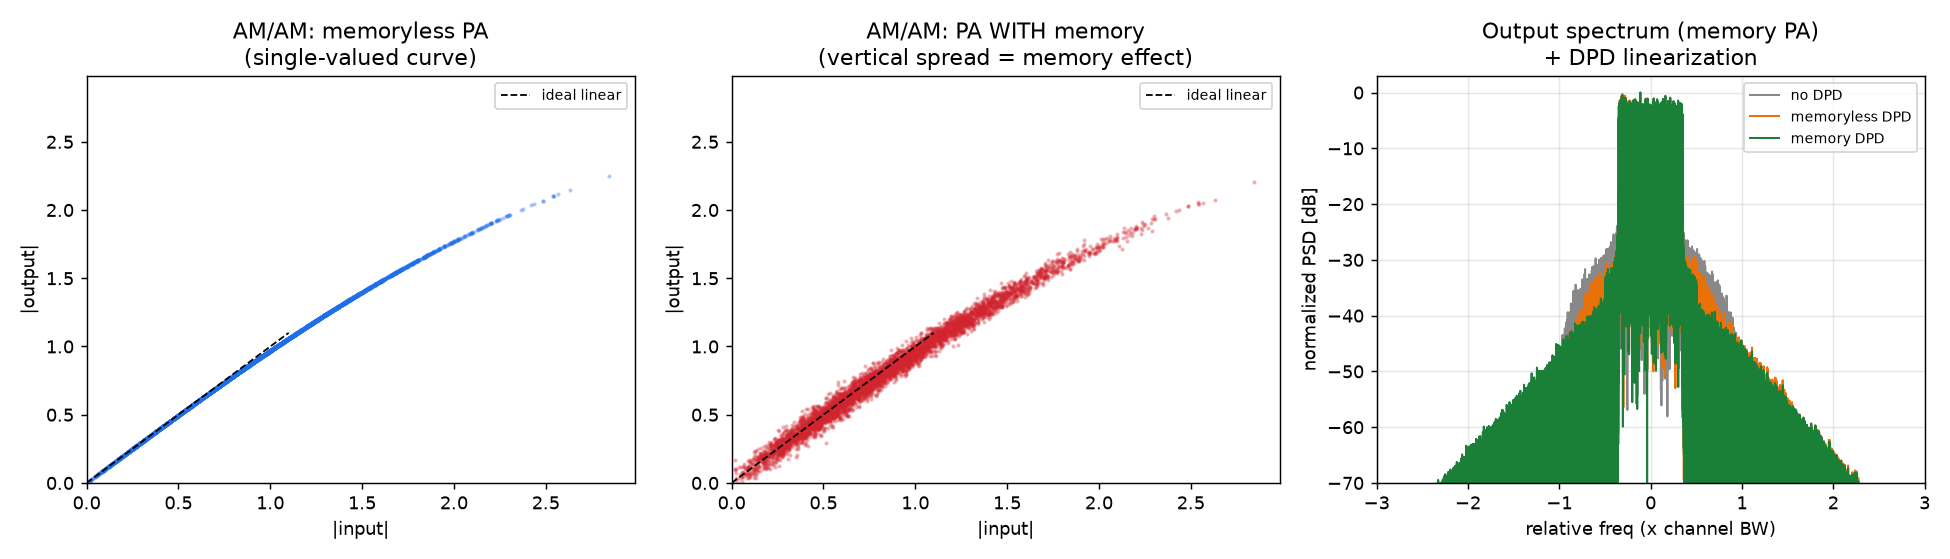
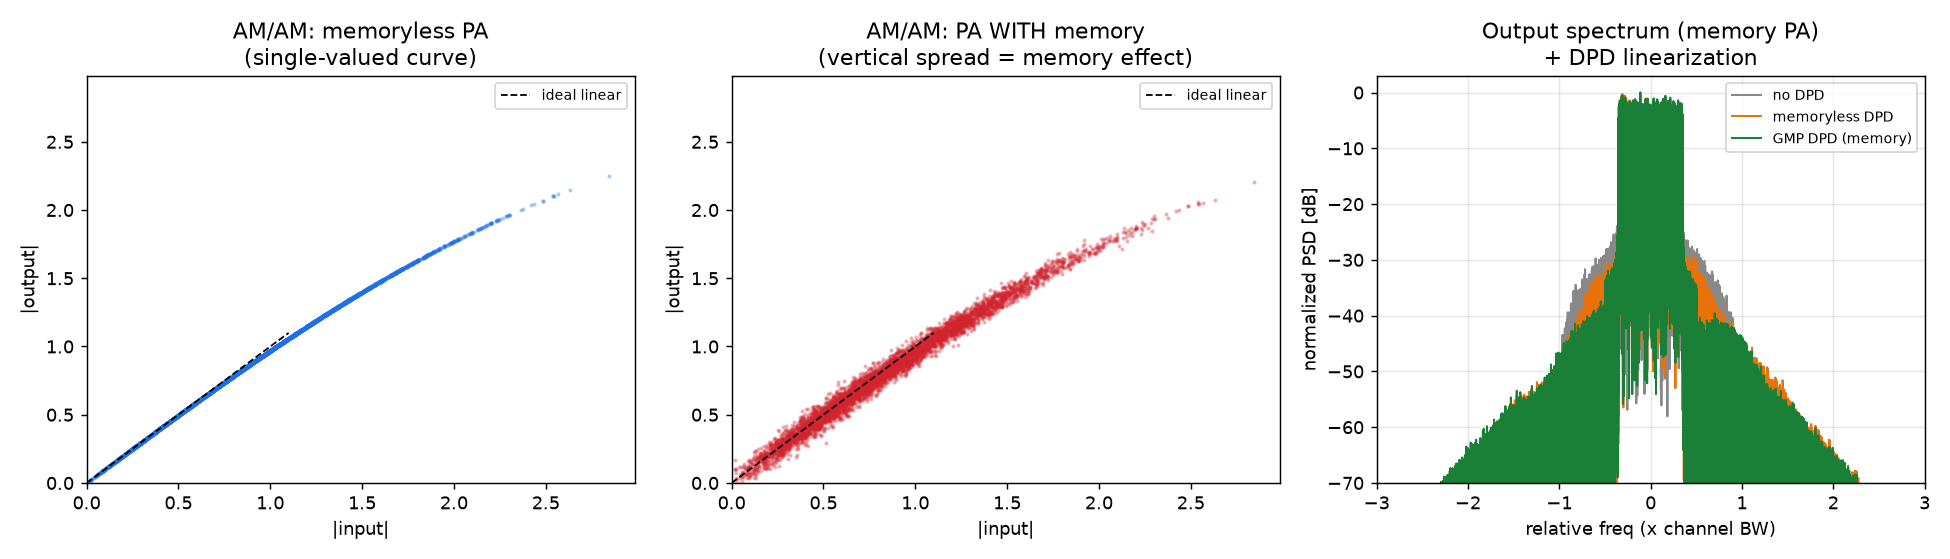
sim/docs: 必読3本(Morgan GMP/Boumaiza熱/Ku-Kenney)とGMP実装を反映
ユーザ提示の標準リファレンスと数式を取り込み、GMPをシミュレーションに実装。

- レポート§6.0新設: メモリレス/MP/GMPの数式と必読3本(①Morgan GMP 2006,
  ②Boumaiza&Ghannouchi 熱メモリー効果 2003 DOI:10.1109/TMTT.2003.820157,
  ③Ku&Kenney 挙動モデル 2003)を明記。参考資料集§2.1も3本構成に更新。
- sim: gmp_basis(交差項 x[n-m]|x[n-m-l]|^{p-1})を追加し、identify/apply_dpdを
  model='mp'|'gmp'対応に一般化。main()にGMP行を追加。
- 結果: メモリレスEVM7.49%→MP 2.03%→GMP 2.01%(ACLR 40.5dB,最良)。
  本モデルは線形FIRメモリ主体のためMPでほぼ足り、GMP上乗せは小と明記。

Claude-Session: https://claude.ai/code/session_01JMFErp3zmr5vsasCsD5dKh

diff --git a/sim/dpd_memory_sim.py b/sim/dpd_memory_sim.py
@@ -110,7 +110,8 @@ class GaNPA:
 #    memory=0 → メモリレス DPD, memory>0 → メモリ付き DPD
 # ----------------------------------------------------------------------
 def mp_basis(x, order=7, memory=2, tap_spacing=1):
-    """メモリ多項式基底 (奇数次 1,3,5,.. × メモリ 0..memory)。
+    """メモリ多項式(MP)基底 (奇数次 1,3,5,.. × メモリ 0..memory)。
+        列: x[n-m]·|x[n-m]|^{p-1}
     tap_spacing でメモリタップ間隔を指定(PA のメモリ時定数に整合させる)。"""
     ks = range(1, order + 1, 2)
     cols = []
@@ -124,25 +125,50 @@ def mp_basis(x, order=7, memory=2, tap_spacing=1):
     return np.column_stack(cols)
 
 
-def identify_dpd(pa, x, order=7, memory=2, tap_spacing=1, iters=1, lam=1e-5):
+def gmp_basis(x, order=7, memory=2, lag=1, tap_spacing=1):
+    """一般化メモリ多項式(GMP)基底 = MP + 遅延包絡線との交差項(Morgan 2006)。
+        交差項: x[n-m]·|x[n-m-l]|^{p-1}   (l=1..lag, p=3,5,..)
+    遅延した包絡線 |x[n-m-l]| が現在の信号に与える影響を補正する。"""
+    cols = [mp_basis(x, order, memory, tap_spacing)]      # 基本の MP 項
+    ax = np.abs(x)
+    ks = range(3, order + 1, 2)                            # 交差項は 3 次以上
+    for m in range(memory + 1):
+        d = m * tap_spacing
+        xm = np.roll(x, d); xm[:d] = 0
+        for l in range(1, lag + 1):
+            dl = (m + l) * tap_spacing
+            axl = np.roll(ax, dl); axl[:dl] = 0
+            for k in ks:
+                cols.append(xm * axl ** (k - 1))
+    return np.column_stack(cols)
+
+
+def _basis(x, model, order, memory, lag, tap_spacing):
+    if model == 'gmp':
+        return gmp_basis(x, order, memory, lag, tap_spacing)
+    return mp_basis(x, order, memory, tap_spacing)
+
+
+def identify_dpd(pa, x, order=7, memory=2, tap_spacing=1, model='mp', lag=1,
+                 iters=1, lam=1e-5):
     """間接学習(ILA): ポストインバースをリッジ回帰で同定 → プリディストータに転用。
     正規化領域(PA 出力を小信号利得 G で割る)で「Phi(z)·w ≈ u」を解く。
-    tap_spacing は PA のメモリ時定数に整合させる(不整合だとメモリ補正が効かない)。"""
+    model='mp'|'gmp'。tap_spacing は PA のメモリ時定数に整合させる。"""
     G = _lin_gain(pa)
     u = x.copy()                       # 現在の PA 入力(初期=無補正)
     w = None
     for _ in range(iters):
         z = pa(u) / G                  # 正規化 PA 出力
-        Phi = mp_basis(z, order, memory, tap_spacing)
+        Phi = _basis(z, model, order, memory, lag, tap_spacing)
         A = Phi.conj().T @ Phi
         A += lam * np.trace(A) / A.shape[0] * np.eye(A.shape[0])
         w = np.linalg.solve(A, Phi.conj().T @ u)
-        u = mp_basis(x, order, memory, tap_spacing) @ w
+        u = _basis(x, model, order, memory, lag, tap_spacing) @ w
     return w, G
 
 
-def apply_dpd(x, w, order=7, memory=2, tap_spacing=1):
-    return mp_basis(x, order, memory, tap_spacing) @ w
+def apply_dpd(x, w, order=7, memory=2, tap_spacing=1, model='mp', lag=1):
+    return _basis(x, model, order, memory, lag, tap_spacing) @ w
 
 
 def _lin_gain(pa):
@@ -246,11 +272,15 @@ def main():
     y0 = pa(x) / g
     w_ml, _ = identify_dpd(pa, x, order=7, memory=0, tap_spacing=osr)
     y1 = pa(apply_dpd(x, w_ml, 7, 0, osr)) / g
-    w_mem, _ = identify_dpd(pa, x, order=7, memory=3, tap_spacing=osr)
-    y2 = pa(apply_dpd(x, w_mem, 7, 3, osr)) / g
+    w_mp, _ = identify_dpd(pa, x, order=7, memory=3, tap_spacing=osr, model='mp')
+    y2 = pa(apply_dpd(x, w_mp, 7, 3, osr, model='mp')) / g
+    w_gmp, _ = identify_dpd(pa, x, order=7, memory=3, tap_spacing=osr,
+                            model='gmp', lag=1)
+    y3 = pa(apply_dpd(x, w_gmp, 7, 3, osr, model='gmp', lag=1)) / g
     rows = [("DPD なし", evm_ofdm(y0, x, meta), aclr(y0, osr)),
             ("メモリレス DPD", evm_ofdm(y1, x, meta), aclr(y1, osr)),
-            ("メモリ付き DPD", evm_ofdm(y2, x, meta), aclr(y2, osr))]
+            ("MP DPD (メモリ)", evm_ofdm(y2, x, meta), aclr(y2, osr)),
+            ("GMP DPD (交差項)", evm_ofdm(y3, x, meta), aclr(y3, osr))]
 
     print(f"\n===== パートB: 64QAM/OFDM(≒17.5MHz, PAPR≈{papr:.1f}dB) の DPD 評価 =====")
     print("-" * 50)
@@ -262,15 +292,16 @@ def main():
     print("64QAM 目標: EVM ≦ 8%,  ACLR ≧ ~30 dB")
 
     print("\n>>> メモリー効果の検証(結論):")
-    print(f"    メモリレス DPD: EVM {rows[1][1]:.2f}%  (静的補正のみ → 残留)")
-    print(f"    メモリ付き DPD: EVM {rows[2][1]:.2f}%  (メモリ補正で解消)")
+    print(f"    メモリレス DPD : EVM {rows[1][1]:.2f}%  (静的補正のみ → 残留)")
+    print(f"    MP DPD        : EVM {rows[2][1]:.2f}%  (メモリ補正で解消)")
+    print(f"    GMP DPD       : EVM {rows[3][1]:.2f}%  (交差項でさらに/同等)")
     if rows[1][1] - rows[2][1] > 1.0:
-        print("    ⇒ メモリレス DPD では取り切れない残留を、メモリ付き DPD が解消。")
+        print("    ⇒ メモリレス DPD では取り切れない残留を、MP/GMP が解消。")
         print("       メモリー効果は明確に『出て』おり、DPD にメモリ項が必須と確認。")
     else:
         print("    ⇒ 差は小さい(モデル設定ではメモリ寄与が軽微)。")
 
-    _make_figures(x, pa, pa_nomem, y0, y1, y2, g, osr)
+    _make_figures(x, pa, pa_nomem, y0, y1, y3, g, osr)  # 図は memoryless vs GMP
     return rows
 
 
@@ -315,7 +346,7 @@ def _make_figures(x, pa, pa_nomem, y0, y1, y2, g, osr):
         return f, p - p.max()
     for s, lb, c in [(y0, "no DPD", "#888888"),
                      (y1, "memoryless DPD", "#e8710a"),
-                     (y2, "memory DPD", "#1a7f37")]:
+                     (y2, "GMP DPD (memory)", "#1a7f37")]:
         f, p = psd_db(s)
         ax[2].plot(f, p, label=lb, lw=1.1, color=c)
     ax[2].set_xlim(-3, 3); ax[2].set_ylim(-70, 3)

diff --git a/docs/6p5GHz_HEMT_PA_歪み補償_設計調査レポート.md b/docs/6p5GHz_HEMT_PA_歪み補償_設計調査レポート.md
@@ -163,6 +163,39 @@
 > - したがって DPD 側は**メモリ構造を持つモデル（メモリ多項式 MP／一般化メモリ多項式 GMP／Volterra 級数）**で「過去の入力にも依存する」非線形を表現する必要があります。
 > - 参考: *"A digital predistorter for power amplifier with memory effect"*、および MP/Volterra 系の各論文（第 参考データ 章）。
 
+### 6.0 基礎数式と必読論文（実装の基準）
+
+**メモリー効果の物理要因**（過去入力 x[n−m] が現在の利得・位相に影響する原因）:
+バイアス・整合回路の低周波インピーダンス／デバイスの自己発熱／GaN HEMT のトラップ現象／電源電圧の変動／周波数依存の入出力整合回路。
+
+**(a) メモリレス DPD**（現在サンプルのみ、奇数次）:
+
+```
+y[n] = Σ_{p=1,3,5,…}^{P}  a_p · x[n] · |x[n]|^{p-1}
+```
+
+**(b) メモリ多項式 DPD（MP）**（過去 M サンプルまで補正）:
+
+```
+y[n] = Σ_{m=0}^{M} Σ_{p=1,3,5,…}^{P}  a_{p,m} · x[n-m] · |x[n-m]|^{p-1}
+```
+
+**(c) 一般化メモリ多項式 DPD（GMP）**（遅延した包絡線との交差項を追加）:
+
+```
+… + Σ_m Σ_l Σ_p  b_{p,m,l} · x[n-m] · |x[n-m-l]|^{p-1}
+```
+
+遅延包絡線 |x[n−m−l]| が現在の信号に与える影響まで補正 → 広帯域で最も高精度。**本件の実装基準は GMP**（狭帯域なら MP でも可。まず MP、不足なら GMP）。
+
+**最初に読むべき論文 3 本**（DPD でメモリー効果を補正する場合）:
+
+1. **D. R. Morgan ほか, "A Generalized Memory Polynomial Model for Digital Predistortion of RF Power Amplifiers," IEEE TSP, 2006** — GMP の原典。MP に過去・未来の包絡線との交差項を追加。**広帯域 DPD で最も参照される実装基準。**
+2. **S. Boumaiza and F. M. Ghannouchi, "Thermal Memory Effects Modeling and Compensation in RF Power Amplifiers and Predistortion Linearizers," IEEE TMTT, 2003（DOI: 10.1109/TMTT.2003.820157）** — 素子温度変化による**遅いメモリー効果**をモデル化し、プリディストータ側で補償。GaN の自己発熱に直結。
+3. **H. Ku and J. S. Kenney, "Behavioral Modeling of Nonlinear RF Power Amplifiers Considering Memory Effects," IEEE TMTT, Vol.51, No.12, pp.2495–2504, 2003** — **入力履歴を含む PA モデルを実測データから作る**考え方。実機較正の基礎。
+
+> 本レポートの付属シミュレーション（`sim/dpd_memory_sim.py`）は上記 (b) MP を実装し、(c) GMP（交差項）も比較できる。実装基準の GMP は Morgan(2006) の定式化に従う。
+
 ### 6.1 挙動モデル
 - **メモリ多項式（MP, Memory Polynomial）**: 静的非線形＋メモリを有限係数で表現。実時間実装が容易で GaN の第一候補。
 - **一般化メモリ多項式（GMP, Generalized Memory Polynomial）**: 交差項を追加し、GaN の長期メモリ（トラップ自己バイアス）により強い。**64QAM/OFDM の実測で有効（LTE 64QAM で検証例あり）**。

diff --git a/docs/DPD_メモリー効果_シミュレーション結果.md b/docs/DPD_メモリー効果_シミュレーション結果.md
@@ -44,12 +44,20 @@
 |---|---|---|---|
 | DPD なし | 9.69 | 33.1 | ✗ 不合格 |
 | メモリレス DPD（静的補正のみ） | 7.49 | 36.3 | △ ぎりぎり(残留あり) |
-| **メモリ付き DPD** | **2.03** | **39.9** | ✓ 合格 |
+| **MP DPD（メモリ多項式）** | **2.03** | **39.9** | ✓ 合格 |
+| **GMP DPD（交差項）** | **2.01** | **40.5** | ✓ 合格(最良) |
 
 **結論**:
 - **メモリレス DPD では EVM 7.5% までしか下がらない**（メモリー効果による残留が取り切れない）。
-- **メモリ付き DPD で EVM 2.0%・ACLR 39.9 dB まで改善**（右図の緑：隣接チャネルの肩が最も低い）。
+- **MP DPD で EVM 2.0%・ACLR 39.9 dB**、**GMP DPD（交差項）でさらに ACLR 40.5 dB** まで改善（右図の緑：隣接チャネルの肩が最も低い）。本モデルはメモリが線形 FIR 主体なので MP でほぼ足り、GMP の上乗せは小さい。実 GaN では GMP の効果がより大きく出るのが一般的。
 - ⇒ **メモリー効果は明確に存在し、64QAM を歪みなく通すには DPD にメモリ項が必須**であることを確認。これは本文レポート第6章「メモリー効果と DPD の関係」の数値的裏付け。
+
+### 実装した DPD モデルの数式（本文レポート §6.0 と対応）
+- メモリレス: `y[n] = Σ_p a_p·x[n]·|x[n]|^{p-1}`
+- MP: `y[n] = Σ_m Σ_p a_{p,m}·x[n-m]·|x[n-m]|^{p-1}`
+- GMP: 上記 + 交差項 `Σ b_{p,m,l}·x[n-m]·|x[n-m-l]|^{p-1}`（Morgan 2006）
+
+**必読3本**: ①Morgan ほか, GMP, IEEE TSP 2006（実装基準）／②Boumaiza & Ghannouchi, 熱メモリー効果, IEEE TMTT 2003（DOI:10.1109/TMTT.2003.820157）／③Ku & Kenney, メモリ効果を含む挙動モデル, IEEE TMTT 2003, Vol.51 No.12。
 
 ---
 

diff --git a/docs/参考資料集_DPD_GaN_HEMT_情報集め.md b/docs/参考資料集_DPD_GaN_HEMT_情報集め.md
@@ -27,9 +27,14 @@ DPD の挙動モデルと適応アルゴリズムを自前で回して EVM/ACLR 
 
 ## 2. 海外論文（英語・基礎〜応用）
 
-### 2.1 DPD のモデル（基礎・必読）
-- **A Generalized Memory Polynomial Model for Digital Predistortion of RF Power Amplifiers**（Morgan ほか, IEEE TSP 2006）— GMP の原典。
+### 2.1 DPD のモデル（基礎・必読3本）
+> DPD でメモリー効果を補正するなら、まずこの 3 本。特に ①GMP が実装の基準。
+
+- **① D. R. Morgan ほか, "A Generalized Memory Polynomial Model for Digital Predistortion of RF Power Amplifiers," IEEE TSP, 2006** — GMP の原典。MP に過去・未来の包絡線との交差項を追加。広帯域 DPD で最も参照される。
   https://www.researchgate.net/publication/3319867
+- **② S. Boumaiza and F. M. Ghannouchi, "Thermal Memory Effects Modeling and Compensation in RF Power Amplifiers and Predistortion Linearizers," IEEE TMTT, 2003** — 素子温度変化による遅いメモリー効果のモデル化と補償。GaN 自己発熱に直結。
+  DOI: 10.1109/TMTT.2003.820157
+- **③ H. Ku and J. S. Kenney, "Behavioral Modeling of Nonlinear RF Power Amplifiers Considering Memory Effects," IEEE TMTT, Vol.51, No.12, pp.2495–2504, 2003** — 入力履歴を含む PA モデルを実測から作る考え方。実機較正の基礎。
 - **A digital predistorter for power amplifier with memory effect** — メモリー効果を扱う DPD（＝「デジタルにもメモリー効果」の論点）。
   https://www.researchgate.net/publication/229926972
 - **An Open-Loop Digital Predistorter Based on Memory Polynomial Inverses** — 開ループ MP 逆特性。
